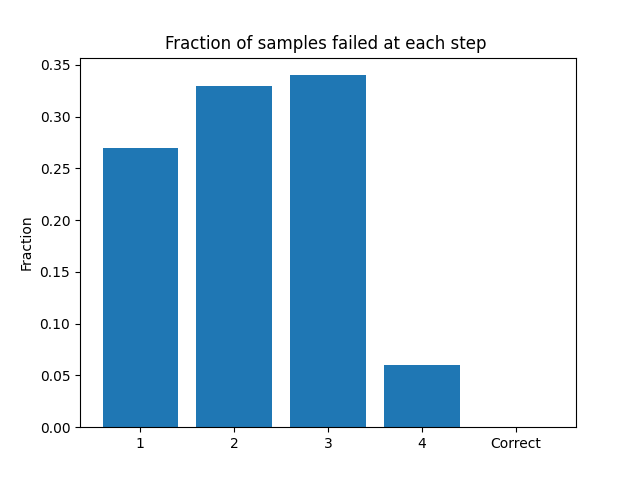
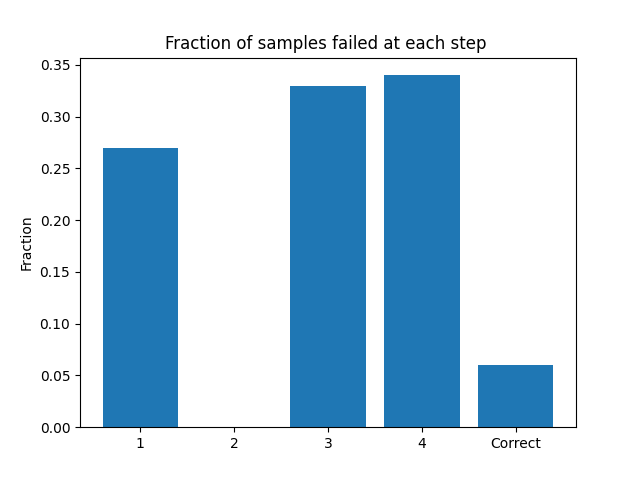
fixed plots for One-Step ToT

Changed region(s): [[0.2812, 0.1562, 0.7188, 0.9062], [0.75, 0.75, 0.875, 0.9062]]

diff --git a/one_step_tot_testing.py b/one_step_tot_testing.py
@@ -200,8 +200,9 @@ def generate_plots_one_step_tot():
         values = []
         for sc in categories:
             values.append(counts[sc])
-        values = pd.Series(counts.values())
-        values = (values/sum(values)).tolist()
+        total_of_values = sum(values)
+        for v in range(len(values)):
+            values[v] /= total_of_values
         fig,ax = plt.subplots()
         ax.bar(categories, values)
         ax.set_ylabel("Fraction")
